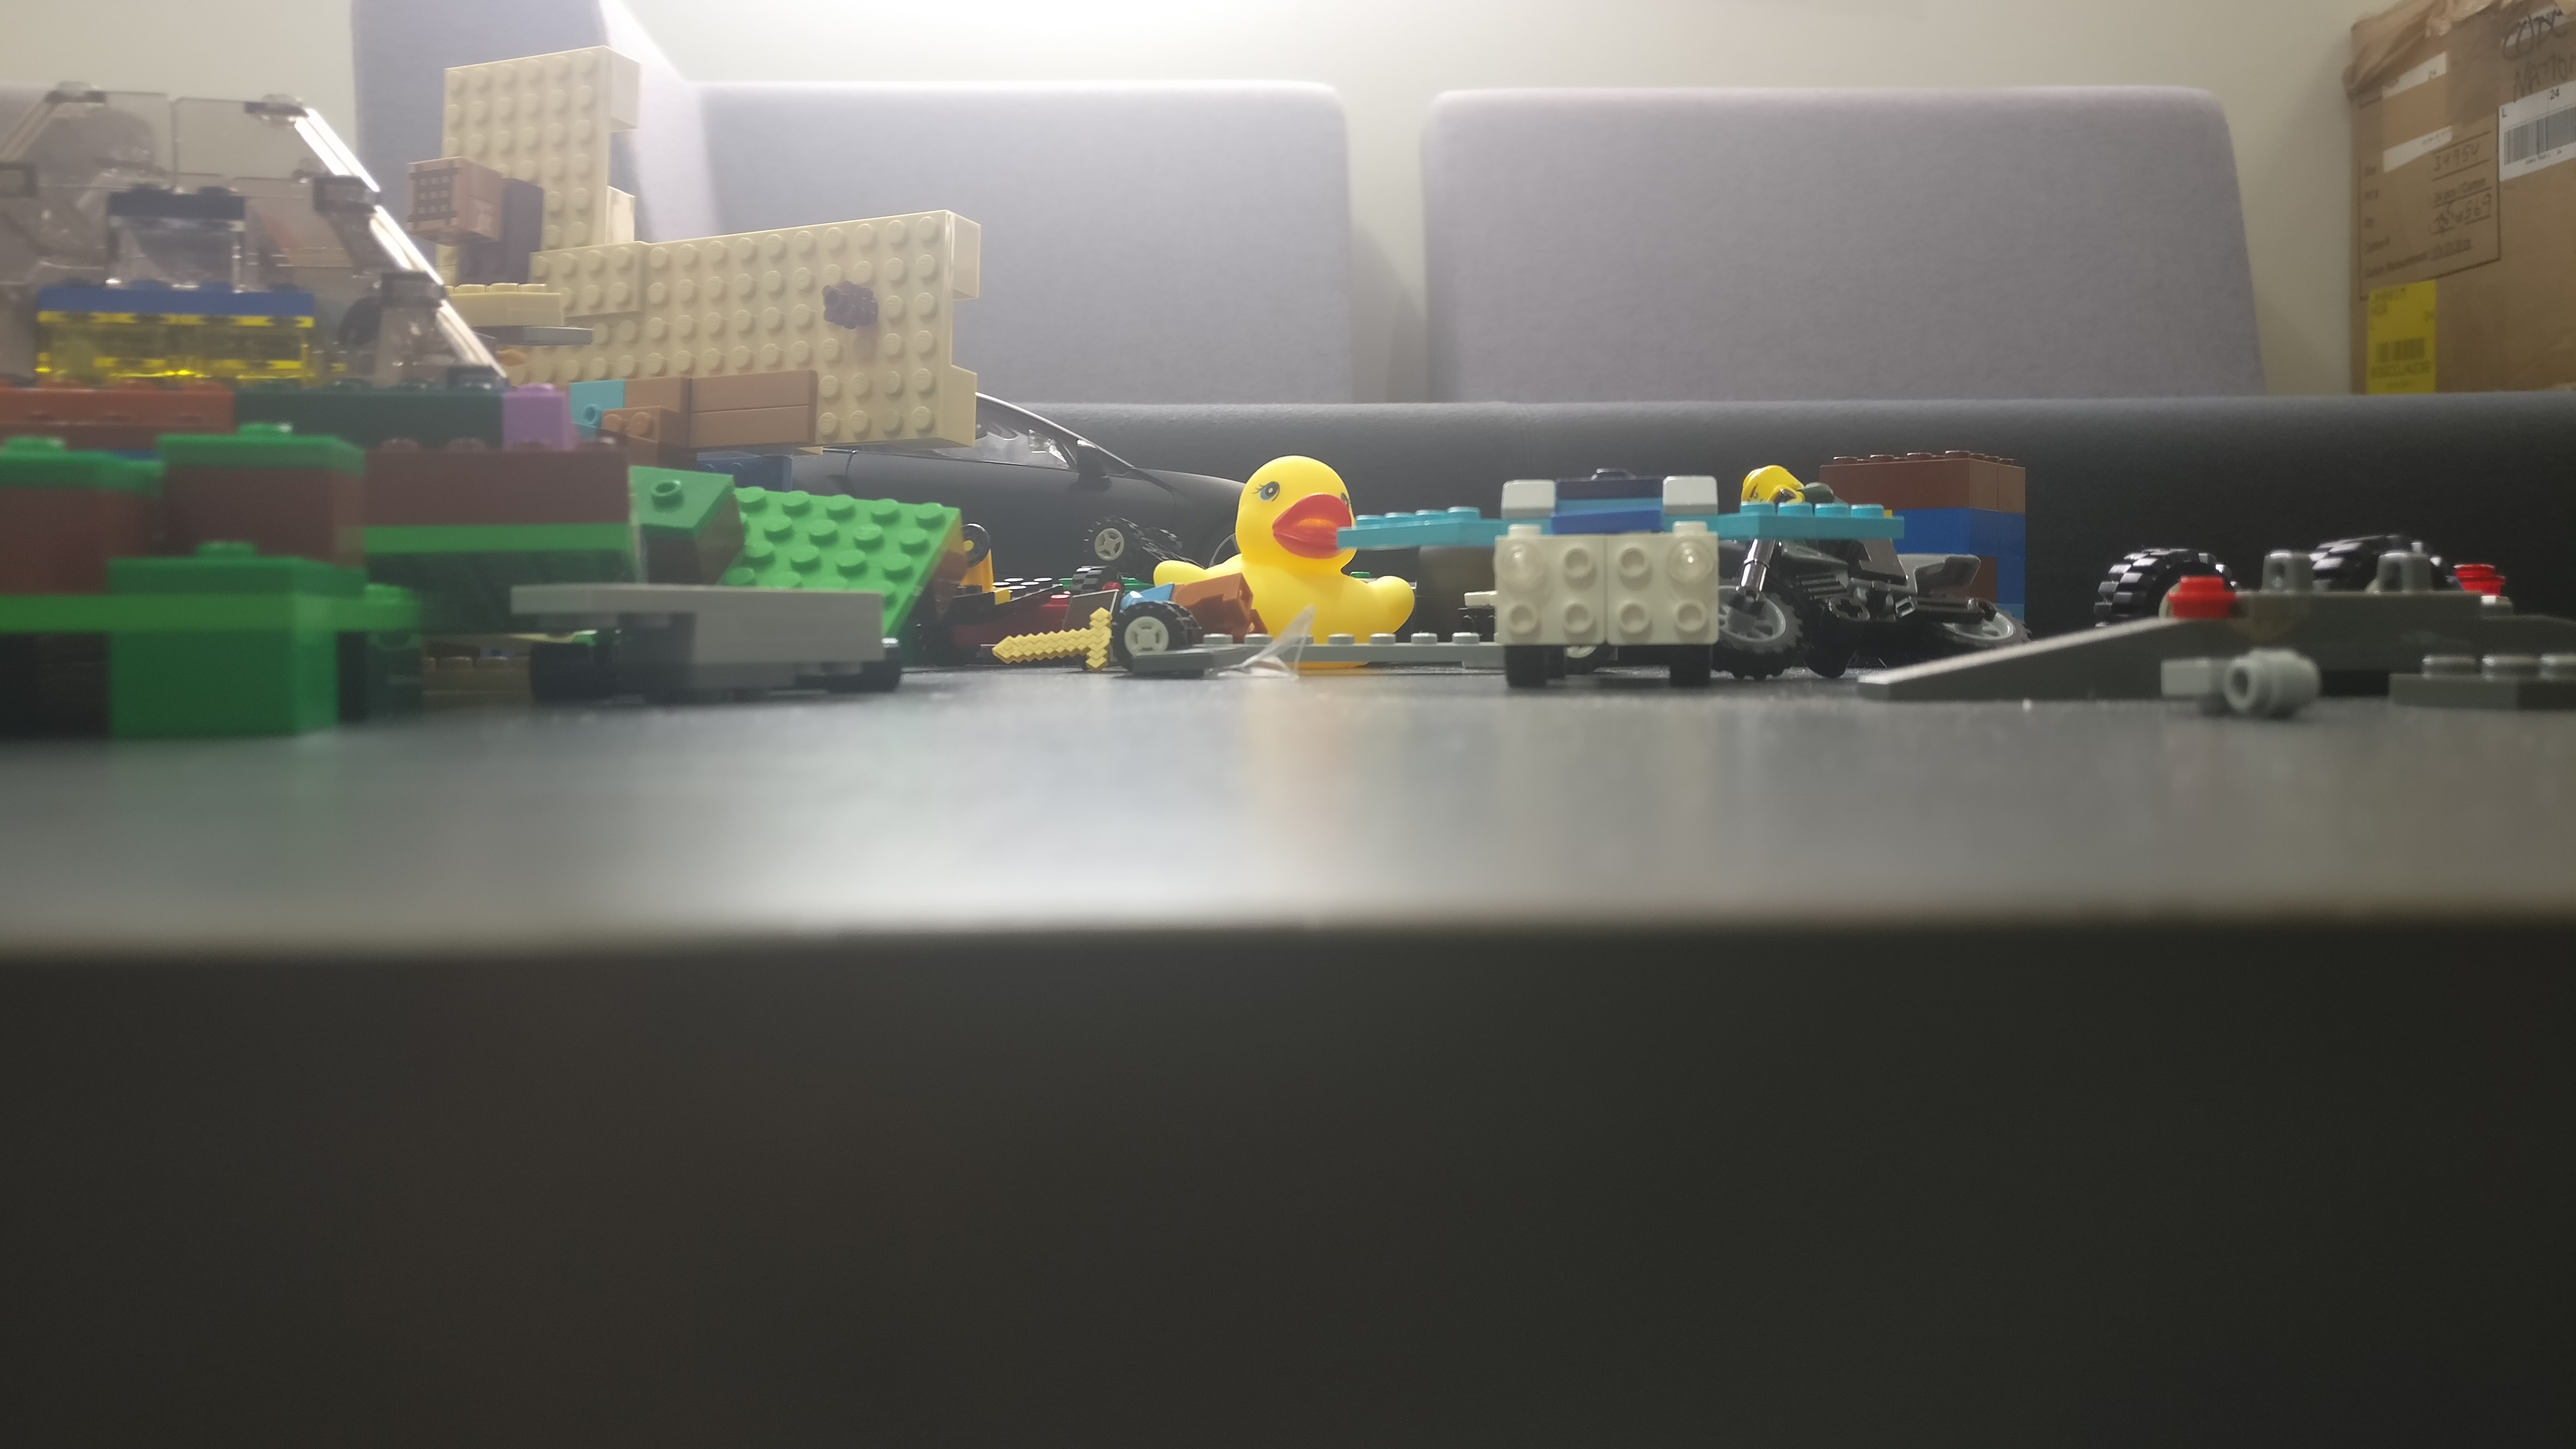
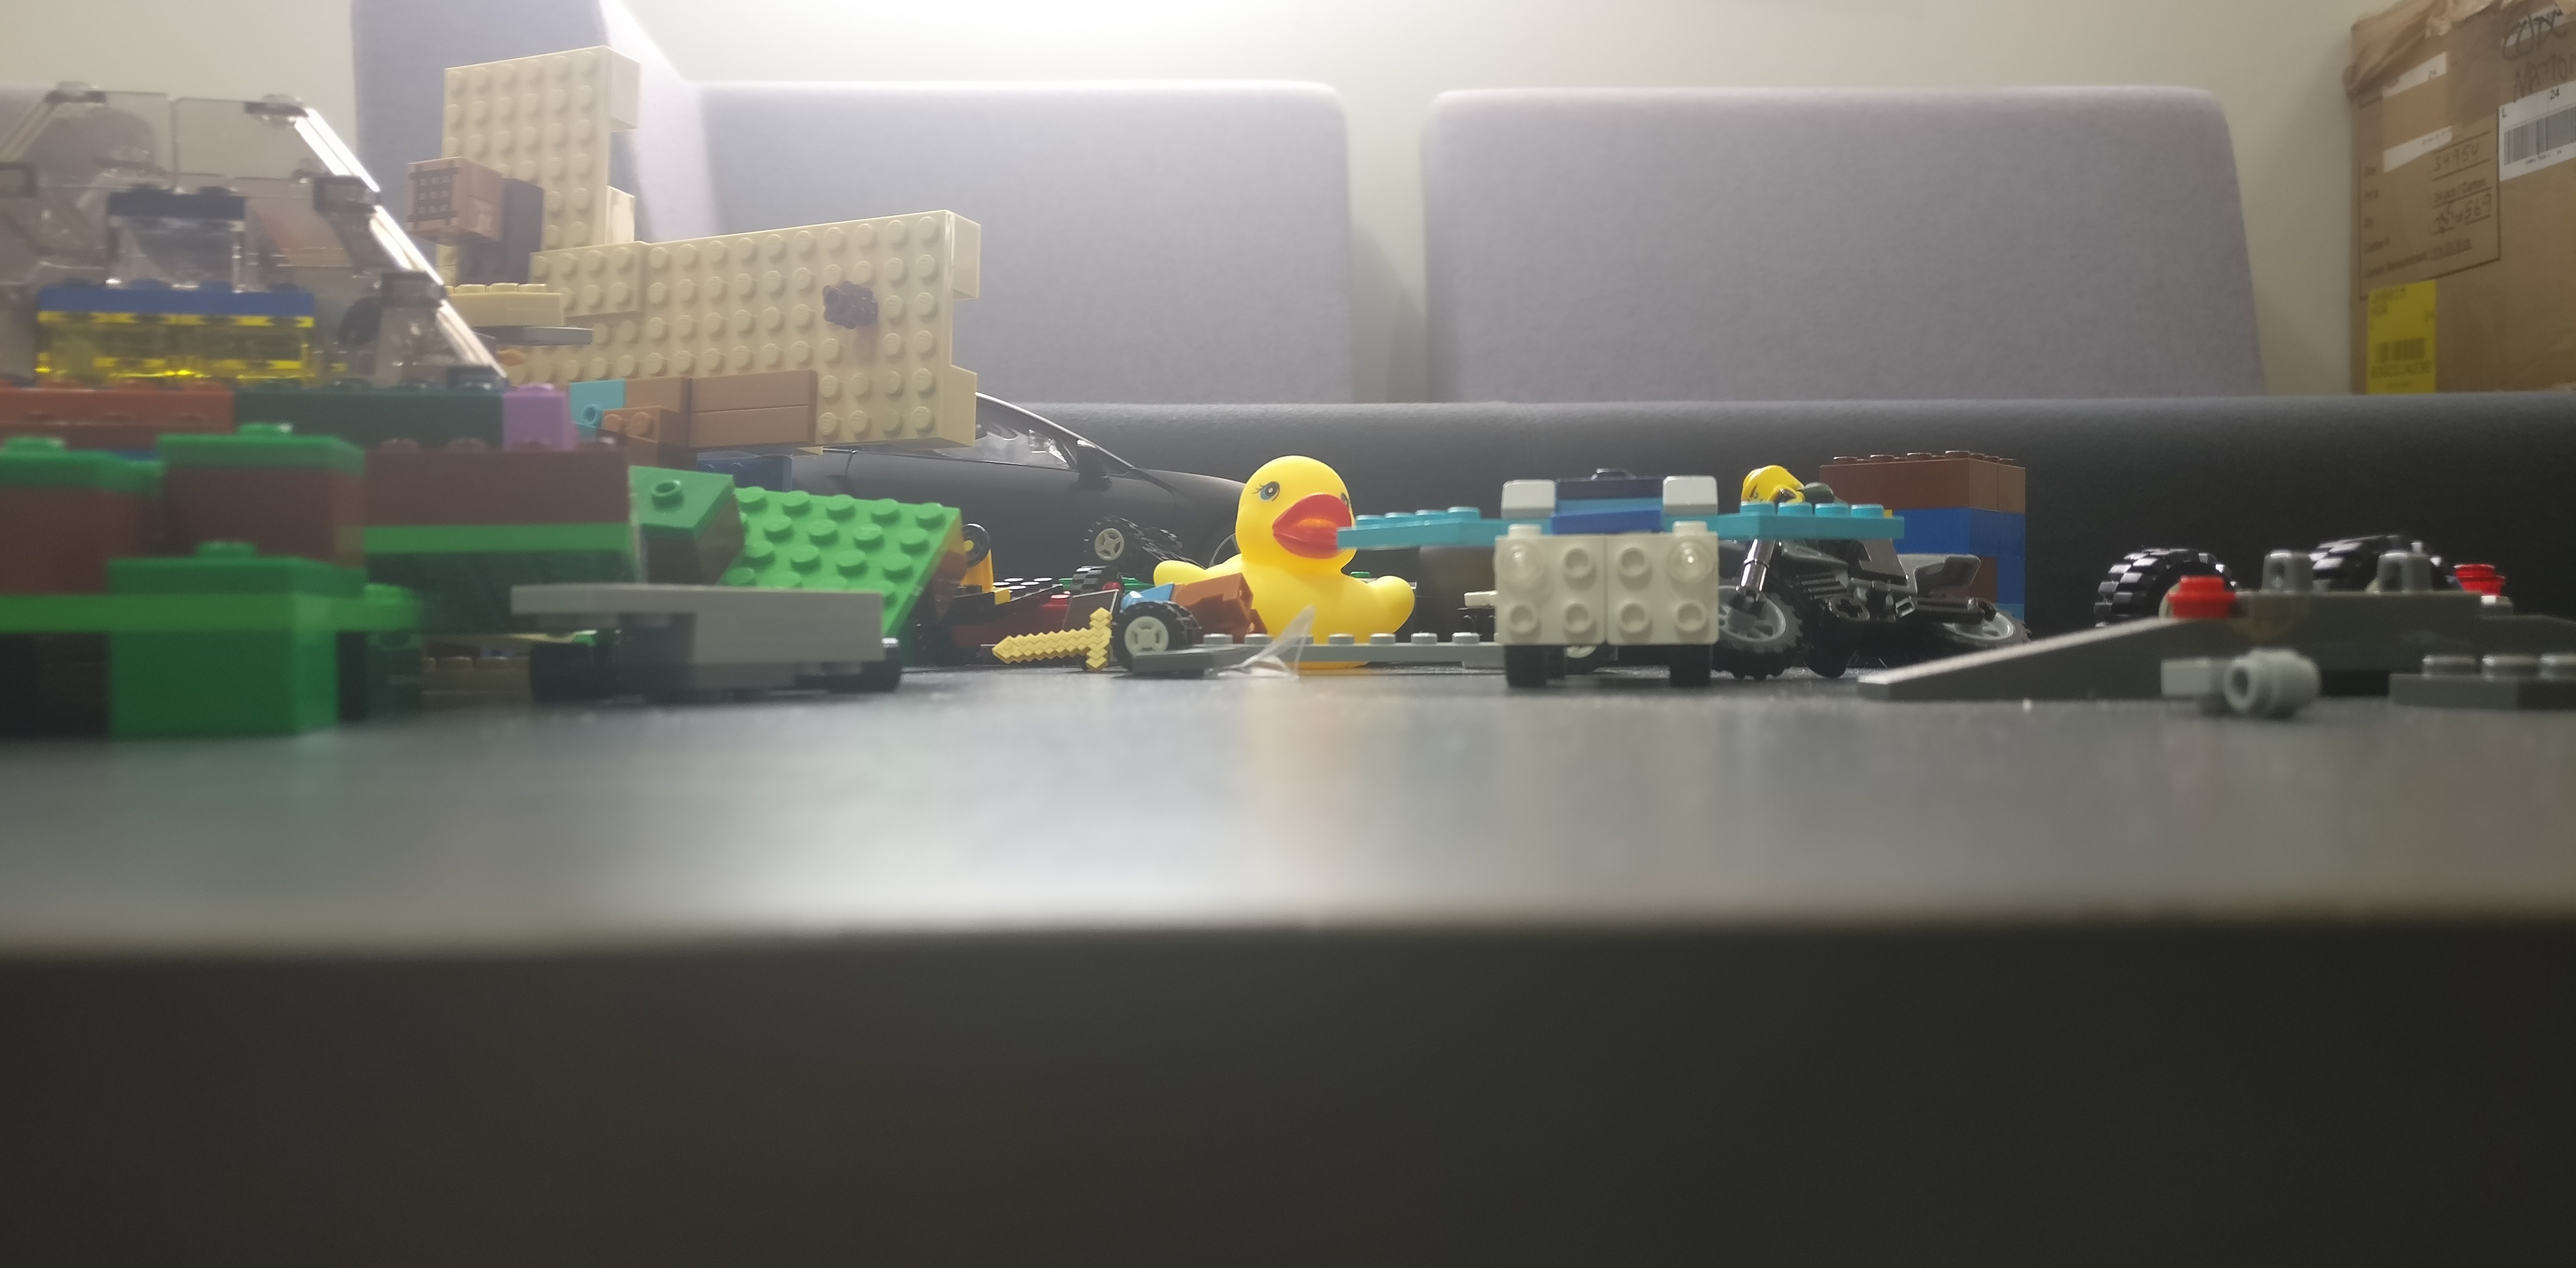
Made ratio changes to background

diff --git a/style.css b/style.css
@@ -7,7 +7,7 @@
 body {
     background-image: url(img/background.jpg);
     background-repeat: no-repeat;
-    background-size: cover;
+    background-size: 110vw 100vh;
 }
 
 #statbar {
